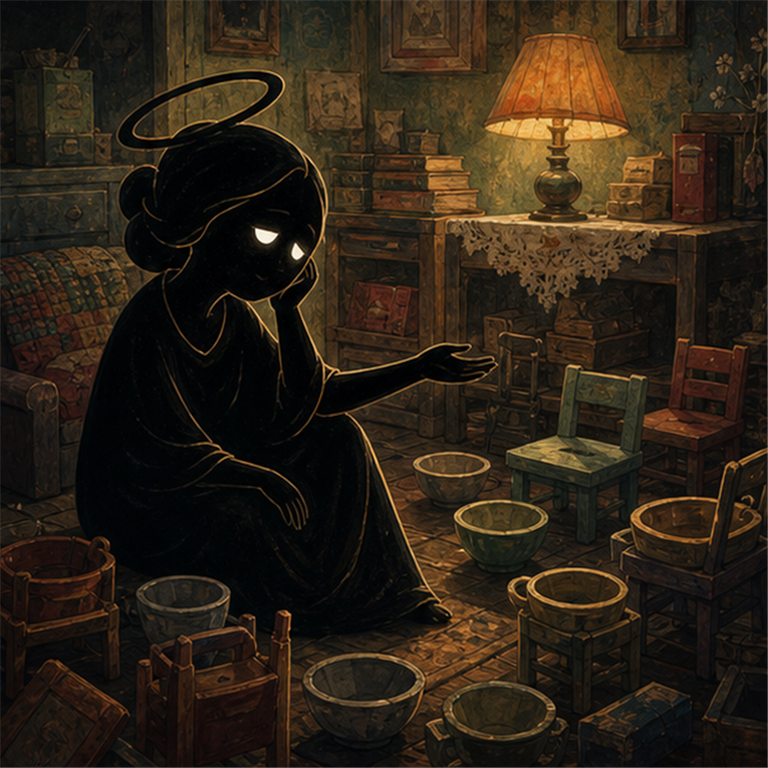
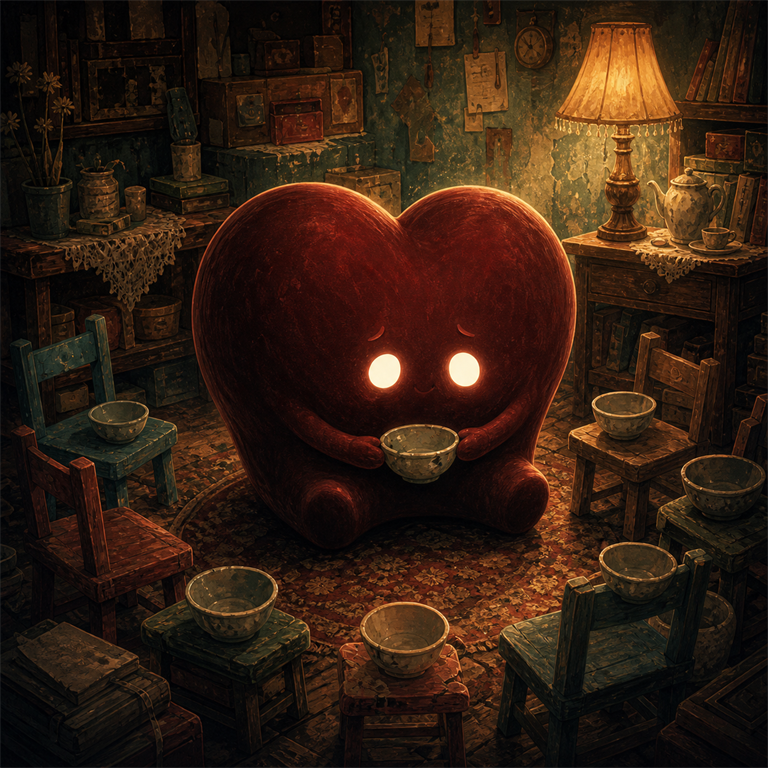
Update solo 03 04 result art

diff --git a/index.html b/index.html
@@ -8,7 +8,7 @@
       content="多人版16型人格测试：幽默但有解释力的个人、双人和团队参与码测试。"
     />
     <title>多人版16型人格测试</title>
-    <script type="module" crossorigin src="./assets/index-D5rhyOX6.js"></script>
+    <script type="module" crossorigin src="./assets/index-CgdwLYhQ.js"></script>
     <link rel="stylesheet" crossorigin href="./assets/index-DSTRyWcI.css">
   </head>
   <body>